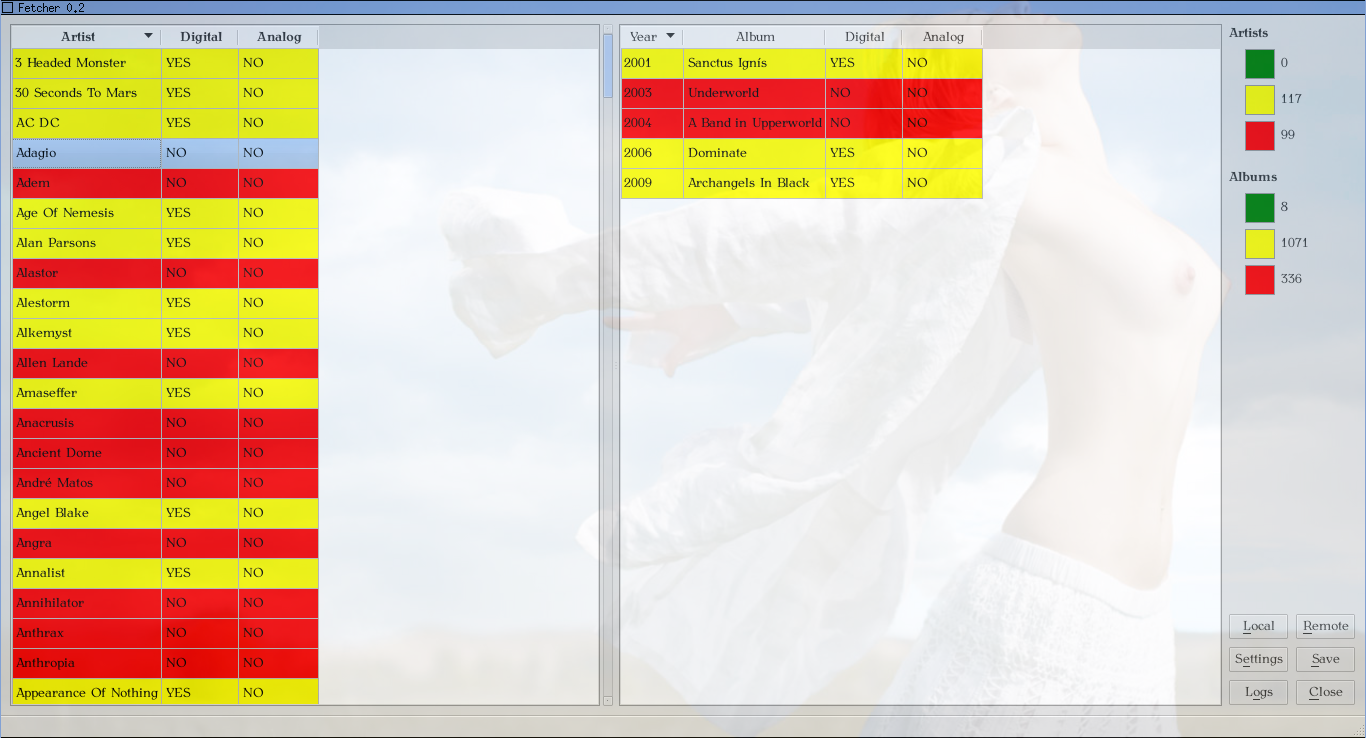
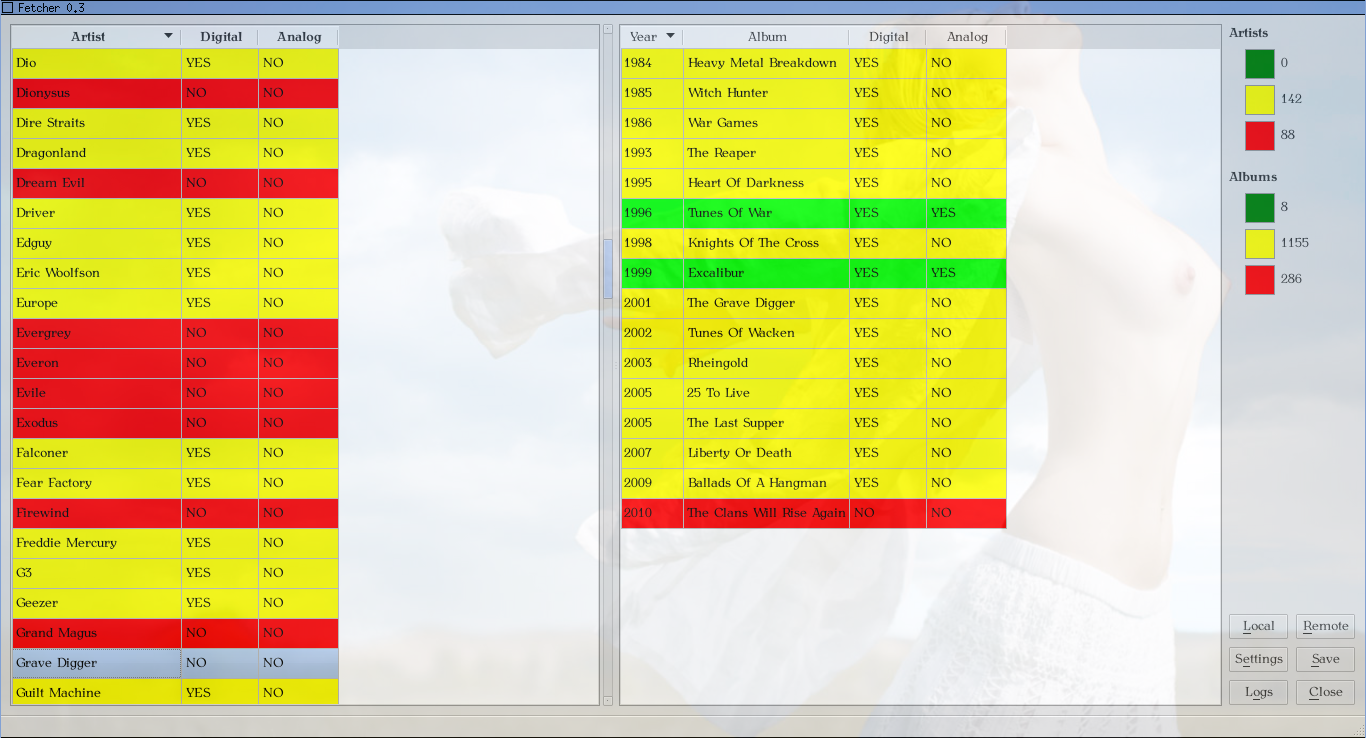
Changed version number, updated shots.

Changed region(s): [[0.0, 0.0312, 0.246, 0.9661], [0.4305, 0.0312, 0.7379, 0.7168]]

diff --git a/src/fetcher/fetcher.py b/src/fetcher/fetcher.py
@@ -6,6 +6,7 @@ import sqlite3
 from PyQt4 import QtGui
 from PyQt4.QtCore import QStringList,Qt
 
+version='0.3'
 if sys.platform=='win32':
     import ctypes
     dll=ctypes.windll.shell32
@@ -167,7 +168,7 @@ class FirstRun(QtGui.QDialog):
         self.ui.browse.clicked.connect(self.__browse)
         self.ui.cancel.clicked.connect(sys.exit)
         self.ui.ok.clicked.connect(self.close)
-        self.setWindowTitle(u'Fetcher 0.2 - First Run Configuration')
+        self.setWindowTitle(u'Fetcher '+version+' - First Run Configuration')
     def __browse(self):
         dialog=QtGui.QFileDialog()
         self.ui.directory.setText(dialog.getExistingDirectory())
@@ -206,7 +207,7 @@ class Main(QtGui.QMainWindow):
         self.ui.save.clicked.connect(self.save)
         self.ui.log.clicked.connect(self.showLogs)
         self.statusBar()
-        self.setWindowTitle(u'Fetcher 0.2')
+        self.setWindowTitle(u'Fetcher '+version)
     def setAnalog(self,item):
         digital=self.ui.albums.item(item.row(),2).text()
         analog=self.ui.albums.item(item.row(),3)
